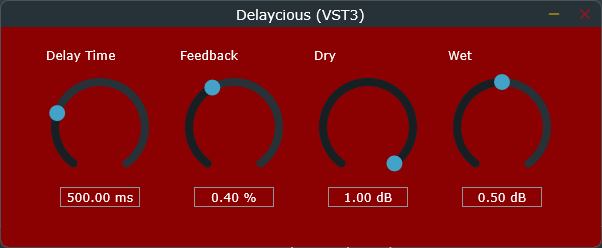
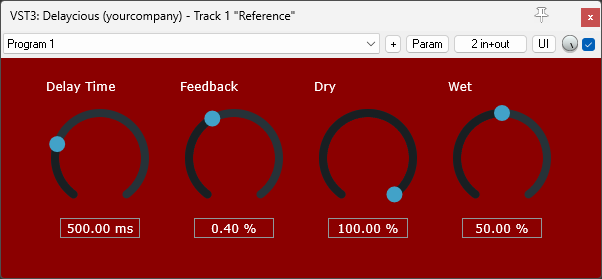
gui screenshot updated

diff --git a/Source/PluginProcessor.cpp b/Source/PluginProcessor.cpp
@@ -166,8 +166,8 @@ juce::AudioProcessorValueTreeState::ParameterLayout DelayciousAudioProcessor::cr
 	params.push_back(std::make_unique<juce::AudioParameterFloat>("FEEDBACK", "Feedback", 0.0f, 1.0f, 0.4f));
     //params.push_back(std::make_unique<juce::AudioParameterFloat>("DRY", "Dry", juce::NormalisableRange<float>(-60.0f, 0.0f, 0.1f, 0.8f, false), 100.0f));
     //params.push_back(std::make_unique<juce::AudioParameterFloat>("WET", "Wet", juce::NormalisableRange<float>(-60.0f, 0.0f, 0.1f, 0.8f, false), 100.0f));
-	params.push_back(std::make_unique<juce::AudioParameterFloat>("DRY", "Dry", 0.0f, 1.0f, 1.0f));
-    params.push_back(std::make_unique<juce::AudioParameterFloat>("WET", "Wet", 0.0f, 1.0f, 0.5f));
+	params.push_back(std::make_unique<juce::AudioParameterFloat>("DRY", "Dry", 0.0f, 100.0f, 100.0f));
+    params.push_back(std::make_unique<juce::AudioParameterFloat>("WET", "Wet", 0.0f, 100.0f, 50.0f));
 	return { params.begin(), params.end() };
 }
 

diff --git a/Source/PluginEditor.cpp b/Source/PluginEditor.cpp
@@ -16,8 +16,8 @@ DelayciousAudioProcessorEditor::DelayciousAudioProcessorEditor (DelayciousAudioP
 
 	delayTimeSlider.setTextValueSuffix(" ms");
 	feedbackSlider.setTextValueSuffix(" %");
-	drySlider.setTextValueSuffix(" dB");
-	wetSlider.setTextValueSuffix(" dB");
+	drySlider.setTextValueSuffix(" %");
+	wetSlider.setTextValueSuffix(" %");
 
 	delayTimeLabel.setText("Delay Time", juce::dontSendNotification);
 	feedbackLabel.setText("Feedback", juce::dontSendNotification);

diff --git a/Source/FeedbackDelay.cpp b/Source/FeedbackDelay.cpp
@@ -33,8 +33,8 @@ void FeedbackDelay::setParameters(float newDelayTime, float newFeedback, float n
 	fbRight = newFeedback;
 	//dry = juce::Decibels::decibelsToGain(newDry);
 	//wet = juce::Decibels::decibelsToGain(newWet);
-	dry = newDry;
-	wet = newWet;
+	dry = newDry/100.0f;
+	wet = newWet/100.0f;
 }
 
 void FeedbackDelay::fillBuffer(juce::AudioBuffer<float>& buffer, int channel)
